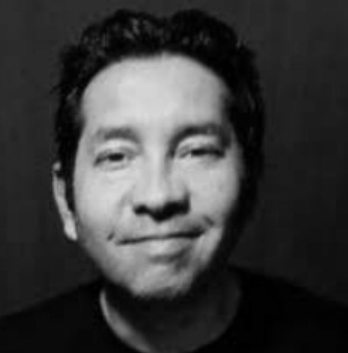
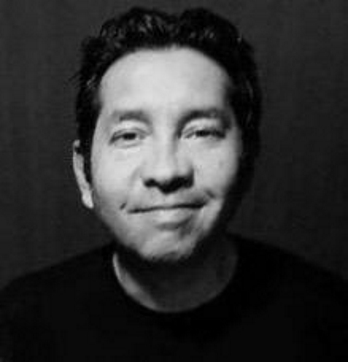
Ajustes na foto do Fabian

diff --git a/index.html b/index.html
@@ -285,7 +285,7 @@
 
      <div class="row align-items-center speaker">
           <div class="col-lg-6 mb-5 mb-lg-0" data-aos="fade" data-aos-delay="100">
-            <img src="images/fabian.jpg" alt="Image" class="img-speaker-fluid">
+            <img src="images/fabian-bw.jpg" alt="Image" class="img-speaker-fluid">
           </div>
           <div class="col-lg-6 ml-auto">
             <h2 class="text-white mb-4 name" data-aos="fade-right" data-aos-delay="200">Fabian Silva</h2>
